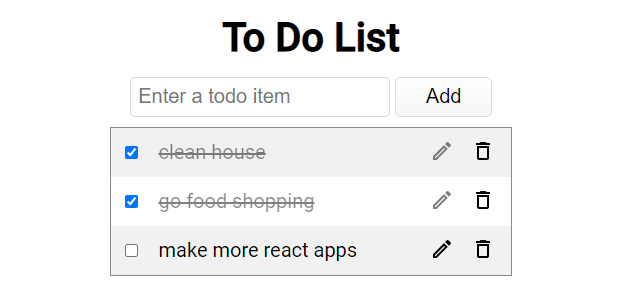
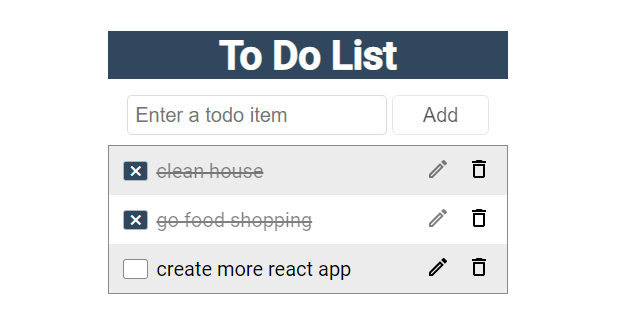
updated design and updated react todo app

Changed region(s): [[0.1501, 0.0594, 0.8104, 0.3861], [0.1501, 0.4158, 0.8104, 0.9208], [0.6603, 0.6832, 0.6904, 0.7129]]

diff --git a/react/todo/static/js/main.77e6d517.chunk.js b/react/todo/static/js/main.77e6d517.chunk.js
@@ -1,0 +1,2 @@
+(this["webpackJsonpto-do"]=this["webpackJsonpto-do"]||[]).push([[0],[,,,,,,,function(e,t,n){e.exports=n(17)},,,,,function(e,t,n){},function(e,t,n){},function(e,t,n){},function(e,t,n){},function(e,t,n){},function(e,t,n){"use strict";n.r(t);var a=n(0),i=n.n(a),c=n(6),o=n.n(c),l=(n(12),n(1)),r=n(3),d=(n(13),n(14),function(e,t){13===e.keyCode&&t()}),m=function(e){var t=e.value,n=e.onChangeHandler,a=e.onClickHandler,c=!1;return""===t.trim()&&(c=!0),i.a.createElement("div",{className:"additem"},i.a.createElement("div",{className:"additem-content"},i.a.createElement("input",{placeholder:"Enter a todo item",value:t,type:"text",onChange:n,onKeyDown:function(e){return d(e,a)}})," "),i.a.createElement("button",{disabled:c,className:"additem-button",type:"button",onClick:a},"Add"))},u=(n(15),n(16),function(e){var t=e.name,n=e.isChecked,a=e.isEditing,c=e.onCheckBoxChanged,o=e.onEditButtonClicked,l=e.onItemChanged,r=e.onEditFinishClicked,m=e.onRemoveButtonClicked,u="",s="";return n&&(u="checked",s="item-disabled"),i.a.createElement("div",{className:"item"},i.a.createElement("input",{type:"checkbox",checked:u,onChange:c}),a&&i.a.createElement(i.a.Fragment,null,i.a.createElement("input",{type:"text",value:t,onChange:l,onKeyDown:function(e){return d(e,r)}}),i.a.createElement("button",{className:"item-button",onClick:r},i.a.createElement("svg",{xmlns:"http://www.w3.org/2000/svg",height:"24",viewBox:"0 0 24 24",width:"24"},i.a.createElement("path",{d:"M0 0h24v24H0V0z",fill:"none"}),i.a.createElement("path",{d:"M19.77 4.93l1.4 1.4L8.43 19.07l-5.6-5.6 1.4-1.4 4.2 4.2L19.77 4.93m0-2.83L8.43 13.44l-4.2-4.2L0 13.47l8.43 8.43L24 6.33 19.77 2.1z"})))),!a&&i.a.createElement(i.a.Fragment,null,i.a.createElement("span",{className:s},t),i.a.createElement("button",{disabled:n,className:"item-button",onClick:o},i.a.createElement("svg",{xmlns:"http://www.w3.org/2000/svg",height:"24",width:"24"},i.a.createElement("path",{d:"M0 0h24v24H0V0z",fill:"none"}),i.a.createElement("path",{d:"M14.06 9.02l.92.92L5.92 19H5v-.92l9.06-9.06M17.66 3c-.25 0-.51.1-.7.29l-1.83 1.83 3.75 3.75 1.83-1.83c.39-.39.39-1.02 0-1.41l-2.34-2.34c-.2-.2-.45-.29-.71-.29zm-3.6 3.19L3 17.25V21h3.75L17.81 9.94l-3.75-3.75z"})))),i.a.createElement("button",{className:"item-button",onClick:m},i.a.createElement("svg",{xmlns:"http://www.w3.org/2000/svg",height:"24",viewBox:"0 0 24 24",width:"24"},i.a.createElement("path",{d:"M0 0h24v24H0V0z",fill:"none"}),i.a.createElement("path",{d:"M16 9v10H8V9h8m-1.5-6h-5l-1 1H5v2h14V4h-3.5l-1-1zM18 7H6v12c0 1.1.9 2 2 2h8c1.1 0 2-.9 2-2V7z"}))))}),s=function(e){var t=e.items,n=e.checkBoxChanged,a=e.editClicked,c=e.itemChanged,o=e.editFinishClicked,l=e.removedClicked;return t.length>0?i.a.createElement("div",{className:"items"},t.map((function(e,t){return i.a.createElement(u,{key:t,name:e.name,isChecked:e.isChecked,isEditing:e.isEditing,onCheckBoxChanged:function(){return n(t)},onEditButtonClicked:function(){return a(t)},onItemChanged:function(e){return c(t,e)},onEditFinishClicked:function(){return o(t)},onRemoveButtonClicked:function(){return l(t)}})}))):null},h=function(e,t){var n=null;try{n=JSON.parse(localStorage.getItem(e))}catch(d){n=null,localStorage.clear()}var i=Object(a.useState)(n||t),c=Object(r.a)(i,2),o=c[0],l=c[1];return[o,function(t){l(t),localStorage.setItem(e,JSON.stringify(t))}]},g=function(){var e=Object(a.useState)(""),t=Object(r.a)(e,2),n=t[0],c=t[1],o=h("todos",[]),d=Object(r.a)(o,2),u=d[0],g=d[1];return i.a.createElement("main",null,i.a.createElement("h1",null,"To Do List"),i.a.createElement(m,{value:n,onChangeHandler:function(e){c(e.target.value)},onClickHandler:function(){if(""!==n.trim()){var e={isChecked:!1,name:n,isEditing:!1},t=[].concat(Object(l.a)(u),[e]);g(t)}c("")}}),i.a.createElement(s,{items:u,checkBoxChanged:function(e){var t=Object(l.a)(u),n=t[e];n.isChecked=!n.isChecked,n.isChecked&&(n.isEditing=!1),g(t)},editClicked:function(e){var t=Object(l.a)(u);t[e].isEditing=!0,g(t)},itemChanged:function(e,t){var n=Object(l.a)(u);n[e].name=t.target.value,g(n)},editFinishClicked:function(e){var t=Object(l.a)(u);t[e].isEditing=!1,g(t)},removedClicked:function(e){var t=Object(l.a)(u);t.splice(e,1),g(t)}}))};Boolean("localhost"===window.location.hostname||"[::1]"===window.location.hostname||window.location.hostname.match(/^127(?:\.(?:25[0-5]|2[0-4][0-9]|[01]?[0-9][0-9]?)){3}$/));o.a.render(i.a.createElement(i.a.StrictMode,null,i.a.createElement(g,null)),document.getElementById("root")),"serviceWorker"in navigator&&navigator.serviceWorker.ready.then((function(e){e.unregister()})).catch((function(e){console.error(e.message)}))}],[[7,1,2]]]);
+//# sourceMappingURL=main.77e6d517.chunk.js.map

diff --git a/react/todo/index.html b/react/todo/index.html
@@ -1,1 +1,1 @@
-<!doctype html><html lang="en"><head><meta charset="utf-8"/><link rel="icon" href="/favicon.ico"/><meta name="viewport" content="width=device-width,initial-scale=1"/><meta name="theme-color" content="#000000"/><meta name="description" content="Web site created using create-react-app"/><link rel="apple-touch-icon" href="/logo192.png"/><link rel="manifest" href="manifest.json"/><title>React App</title><link href="./static/css/main.791f8502.chunk.css" rel="stylesheet"></head><body><noscript>You need to enable JavaScript to run this app.</noscript><div id="root"></div><script>!function(e){function t(t){for(var n,l,f=t[0],i=t[1],a=t[2],c=0,s=[];c<f.length;c++)l=f[c],Object.prototype.hasOwnProperty.call(o,l)&&o[l]&&s.push(o[l][0]),o[l]=0;for(n in i)Object.prototype.hasOwnProperty.call(i,n)&&(e[n]=i[n]);for(p&&p(t);s.length;)s.shift()();return u.push.apply(u,a||[]),r()}function r(){for(var e,t=0;t<u.length;t++){for(var r=u[t],n=!0,f=1;f<r.length;f++){var i=r[f];0!==o[i]&&(n=!1)}n&&(u.splice(t--,1),e=l(l.s=r[0]))}return e}var n={},o={1:0},u=[];function l(t){if(n[t])return n[t].exports;var r=n[t]={i:t,l:!1,exports:{}};return e[t].call(r.exports,r,r.exports,l),r.l=!0,r.exports}l.m=e,l.c=n,l.d=function(e,t,r){l.o(e,t)||Object.defineProperty(e,t,{enumerable:!0,get:r})},l.r=function(e){"undefined"!=typeof Symbol&&Symbol.toStringTag&&Object.defineProperty(e,Symbol.toStringTag,{value:"Module"}),Object.defineProperty(e,"__esModule",{value:!0})},l.t=function(e,t){if(1&t&&(e=l(e)),8&t)return e;if(4&t&&"object"==typeof e&&e&&e.__esModule)return e;var r=Object.create(null);if(l.r(r),Object.defineProperty(r,"default",{enumerable:!0,value:e}),2&t&&"string"!=typeof e)for(var n in e)l.d(r,n,function(t){return e[t]}.bind(null,n));return r},l.n=function(e){var t=e&&e.__esModule?function(){return e.default}:function(){return e};return l.d(t,"a",t),t},l.o=function(e,t){return Object.prototype.hasOwnProperty.call(e,t)},l.p="/";var f=this["webpackJsonpto-do"]=this["webpackJsonpto-do"]||[],i=f.push.bind(f);f.push=t,f=f.slice();for(var a=0;a<f.length;a++)t(f[a]);var p=i;r()}([])</script><script src="./static/js/2.e82c9323.chunk.js"></script><script src="./static/js/main.3773743d.chunk.js"></script></body></html>
+<!doctype html><html lang="en"><head><meta charset="utf-8"/><meta name="viewport" content="width=device-width,initial-scale=1"/><meta name="theme-color" content="#000000"/><meta name="description" content="Web site created using create-react-app"/><link rel="manifest" href="./manifest.json"/><title>React App</title><link href="./static/css/main.79b628a6.chunk.css" rel="stylesheet"></head><body><noscript>You need to enable JavaScript to run this app.</noscript><div id="root"></div><script>!function(e){function t(t){for(var n,l,f=t[0],i=t[1],a=t[2],c=0,s=[];c<f.length;c++)l=f[c],Object.prototype.hasOwnProperty.call(o,l)&&o[l]&&s.push(o[l][0]),o[l]=0;for(n in i)Object.prototype.hasOwnProperty.call(i,n)&&(e[n]=i[n]);for(p&&p(t);s.length;)s.shift()();return u.push.apply(u,a||[]),r()}function r(){for(var e,t=0;t<u.length;t++){for(var r=u[t],n=!0,f=1;f<r.length;f++){var i=r[f];0!==o[i]&&(n=!1)}n&&(u.splice(t--,1),e=l(l.s=r[0]))}return e}var n={},o={1:0},u=[];function l(t){if(n[t])return n[t].exports;var r=n[t]={i:t,l:!1,exports:{}};return e[t].call(r.exports,r,r.exports,l),r.l=!0,r.exports}l.m=e,l.c=n,l.d=function(e,t,r){l.o(e,t)||Object.defineProperty(e,t,{enumerable:!0,get:r})},l.r=function(e){"undefined"!=typeof Symbol&&Symbol.toStringTag&&Object.defineProperty(e,Symbol.toStringTag,{value:"Module"}),Object.defineProperty(e,"__esModule",{value:!0})},l.t=function(e,t){if(1&t&&(e=l(e)),8&t)return e;if(4&t&&"object"==typeof e&&e&&e.__esModule)return e;var r=Object.create(null);if(l.r(r),Object.defineProperty(r,"default",{enumerable:!0,value:e}),2&t&&"string"!=typeof e)for(var n in e)l.d(r,n,function(t){return e[t]}.bind(null,n));return r},l.n=function(e){var t=e&&e.__esModule?function(){return e.default}:function(){return e};return l.d(t,"a",t),t},l.o=function(e,t){return Object.prototype.hasOwnProperty.call(e,t)},l.p="/";var f=this["webpackJsonpto-do"]=this["webpackJsonpto-do"]||[],i=f.push.bind(f);f.push=t,f=f.slice();for(var a=0;a<f.length;a++)t(f[a]);var p=i;r()}([])</script><script src="./static/js/2.e82c9323.chunk.js"></script><script src="./static/js/main.77e6d517.chunk.js"></script></body></html>

diff --git a/react/todo/static/css/main.79b628a6.chunk.css b/react/todo/static/css/main.79b628a6.chunk.css
@@ -1,0 +1,2 @@
+@import url(https://fonts.googleapis.com/css2?family=Roboto:wght@400;500&display=swap);*{box-sizing:border-box}html{font-size:16px}@media (min-width:768px){html{font-size:18px}}@media (min-width:1024px){html{font-size:20px}}@media (min-width:2048px){html{font-size:22px}}h1{max-width:400px;text-align:center;font-size:2rem;margin:1.8rem auto .8rem;background:#30475e;color:#fff}body{margin:0;-webkit-font-smoothing:antialiased;-moz-osx-font-smoothing:grayscale}body,code{font-family:Roboto}input{outline:none}input[type=text]{font-size:1rem;padding:.38rem;border:1px solid #dcdcdc;border-radius:5px}input[type=image]:disabled{opacity:.5}input[type=checkbox]{background-color:#fff;border:1px solid #8b8989;padding:9px;border-radius:3px;display:inline-block;-webkit-appearance:none;position:relative}input[type=checkbox]:checked{background-color:#30475e;border:1px solid #adb8c0;color:#99a1a7}input[type=checkbox]:checked:after{content:"\2716";font-size:14px;position:absolute;top:-1px;left:6px;color:#fff}.additem{display:flex;justify-content:center}.additem-content{padding-right:.25rem}.additem-button{box-shadow:inset 0 1px 0 0 #fff;background:linear-gradient(180deg,#fff 5%,#f6f6f6);background-color:#fff;border-radius:6px;border:1px solid #dcdcdc;cursor:pointer;color:#000;font-size:1rem;padding:.3rem 1.5rem;text-decoration:none;text-shadow:0 1px 0 #fff;outline:none}.additem-button:hover{background:linear-gradient(180deg,#f6f6f6 5%,#fff);background-color:#f6f6f6}.additem-button:disabled{opacity:.7;cursor:auto;background:none}.additem-button:active{position:relative;top:1px}.items{max-width:400px;margin:.5rem auto;border:1px solid #8b8989}.item{padding:.5rem;display:grid;grid-template-columns:.5fr 4fr .5fr .5fr;grid-column-gap:.25rem;align-items:center}.item:nth-child(odd){background:#ececec}.item-disabled{text-decoration:line-through;opacity:.5}.item-button{border:none;outline:none;cursor:pointer;background:none}.item-button:disabled{opacity:.5}.item-button:active{position:relative;top:1px}
+/*# sourceMappingURL=main.79b628a6.chunk.css.map */

diff --git a/react/todo/precache-manifest.95610e2bc1b32cfedcba3fde905df126.js b/react/todo/precache-manifest.95610e2bc1b32cfedcba3fde905df126.js
@@ -1,11 +1,11 @@
 self.__precacheManifest = (self.__precacheManifest || []).concat([
   {
-    "revision": "b1566783a635eb33416581abfb0c578d",
+    "revision": "19660d2761e3cf2c2f5748b1fb3f2cf6",
     "url": "/index.html"
   },
   {
-    "revision": "ed9fefafae6ed32614b4",
-    "url": "/static/css/main.791f8502.chunk.css"
+    "revision": "c6194db4aba043b160f2",
+    "url": "/static/css/main.79b628a6.chunk.css"
   },
   {
     "revision": "a0486010812e6b451cb2",
@@ -16,8 +16,8 @@ self.__precacheManifest = (self.__precacheManifest || []).concat([
     "url": "/static/js/2.e82c9323.chunk.js.LICENSE.txt"
   },
   {
-    "revision": "ed9fefafae6ed32614b4",
-    "url": "/static/js/main.3773743d.chunk.js"
+    "revision": "c6194db4aba043b160f2",
+    "url": "/static/js/main.77e6d517.chunk.js"
   },
   {
     "revision": "37a0d35451170c581fd7",

diff --git a/react/todo/service-worker.js b/react/todo/service-worker.js
@@ -14,7 +14,7 @@
 importScripts("https://storage.googleapis.com/workbox-cdn/releases/4.3.1/workbox-sw.js");
 
 importScripts(
-  "/precache-manifest.8082ff99ec4b3b84d2ae218711eacf47.js"
+  "/precache-manifest.95610e2bc1b32cfedcba3fde905df126.js"
 );
 
 self.addEventListener('message', (event) => {
